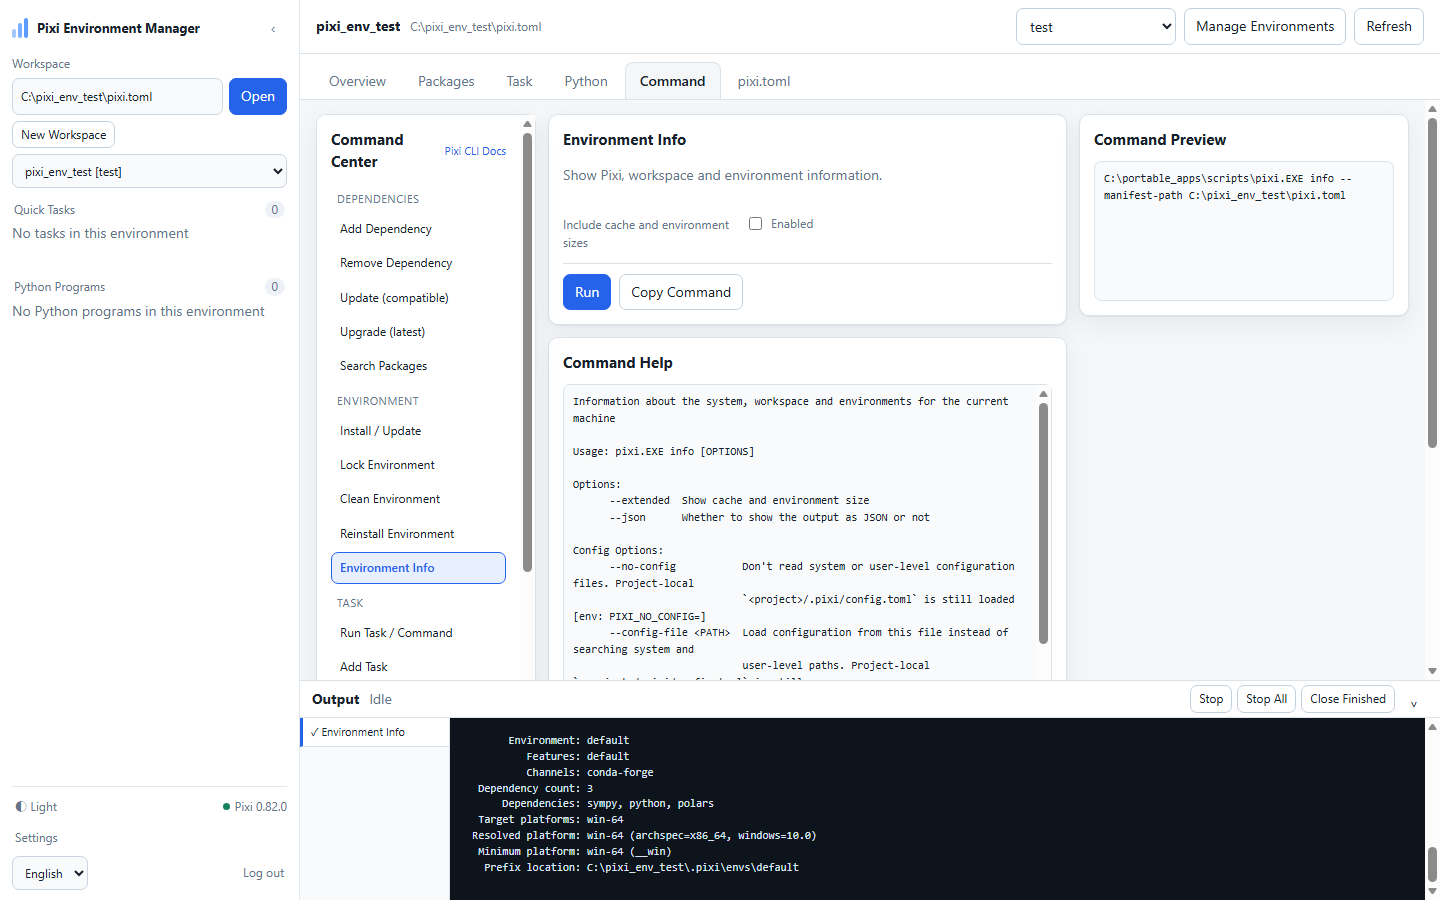
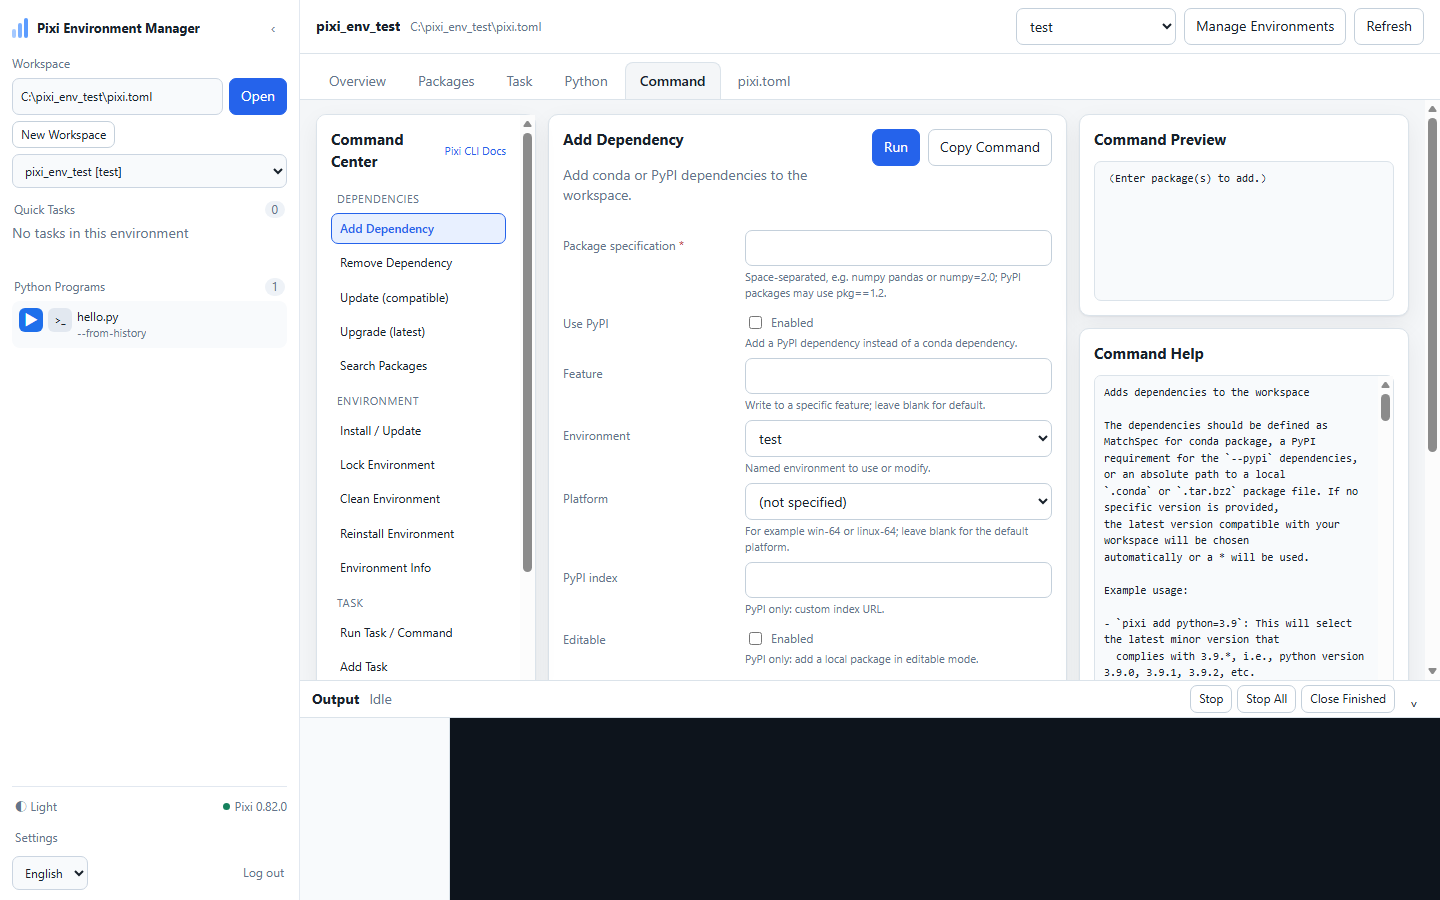
feat: align command layouts and add package license columns

diff --git a/app/web/templates/index.html b/app/web/templates/index.html
@@ -137,6 +137,7 @@
                   <th data-i18n="Scope">Scope</th>
                   <th data-i18n="Requested">Requested</th>
                   <th data-i18n="Source">Source</th>
+                  <th data-i18n="License">License</th>
                   <th data-i18n="Size">Size</th>
                 </tr>
               </thead>
@@ -185,23 +186,18 @@
 
             <div class="command-main">
               <div class="card command-form-card">
-                <div class="card-header">
+                <div class="card-header command-form-header">
                   <div>
                     <h2 id="command-title" data-i18n="Command Center">Command Center</h2>
                     <p id="command-summary" class="muted"></p>
                   </div>
+                  <div class="actions command-header-actions">
+                    <button class="button button-primary" id="command-run" type="button" data-i18n="Run">Run</button>
+                    <button class="button" id="command-copy" type="button" data-i18n="Copy Command">Copy Command</button>
+                  </div>
                 </div>
                 <div id="command-base-notice" class="command-notice" hidden></div>
                 <div id="command-form" class="command-form"></div>
-                <div class="actions command-actions">
-                  <button class="button button-primary" id="command-run" type="button" data-i18n="Run">Run</button>
-                  <button class="button" id="command-copy" type="button" data-i18n="Copy Command">Copy Command</button>
-                </div>
-              </div>
-
-              <div class="card command-help-card">
-                <div class="card-header"><h2 data-i18n="Command Help">Command Help</h2></div>
-                <pre id="command-help" class="command-text"></pre>
               </div>
             </div>
 
@@ -209,6 +205,11 @@
               <div class="card command-preview-card">
                 <div class="card-header"><h2 data-i18n="Command Preview">Command Preview</h2></div>
                 <pre id="command-preview" class="command-text"></pre>
+              </div>
+
+              <div class="card command-help-card">
+                <div class="card-header"><h2 data-i18n="Command Help">Command Help</h2></div>
+                <pre id="command-help" class="command-text"></pre>
               </div>
             </div>
           </div>

diff --git a/app/web/static/app.css b/app/web/static/app.css
@@ -297,7 +297,7 @@ input:focus, select:focus, textarea:focus { outline: 2px solid var(--accent-soft
 
 /* ---------- Tables ---------- */
 .table-wrap { overflow: auto; background: var(--panel); border: 1px solid var(--line); border-radius: var(--radius); box-shadow: var(--shadow); }
-.package-table { width: 100%; border-collapse: collapse; font-size: 12px; min-width: 980px; }
+.package-table { width: 100%; border-collapse: collapse; font-size: 12px; min-width: 1120px; }
 .package-table th, .package-table td { padding: 7px 9px; border-bottom: 1px solid var(--line); text-align: left; vertical-align: top; }
 .package-table th { position: sticky; top: 0; background: var(--panel-2); color: var(--muted); font-weight: 600; z-index: 1; }
 .package-table tbody tr:hover { background: var(--accent-soft); cursor: pointer; }
@@ -353,6 +353,8 @@ input:focus, select:focus, textarea:focus { outline: 2px solid var(--accent-soft
 .command-field .check-row { padding-top: 6px; }
 .command-notice { background: var(--accent-soft); color: var(--text); border: 1px solid var(--line); border-radius: 7px; padding: 8px 10px; margin-bottom: 10px; font-size: 12px; }
 .command-actions { border-top: 1px solid var(--line); padding-top: 10px; }
+.command-form-header { align-items: flex-start; }
+.command-header-actions { flex: none; }
 .command-text { margin: 0; min-height: 120px; max-height: 340px; overflow: auto; white-space: pre-wrap; word-break: break-word; background: var(--panel-2); color: var(--text); border: 1px solid var(--line); border-radius: 7px; padding: 9px; font: 11px/1.5 Consolas, "Cascadia Mono", monospace; }
 .command-help-card .command-text { min-height: 240px; max-height: 420px; }
 .command-preview-card .command-text { min-height: 140px; }

diff --git a/app/web/static/app.js b/app/web/static/app.js
@@ -295,7 +295,7 @@
       if (filter === "user" && !pkg.is_explicit) return false;
       if (kind && String(pkg.kind).toLowerCase() !== kind) return false;
       if (query) {
-        const hay = `${pkg.name} ${pkg.version} ${pkg.requested_spec} ${pkg.source}`.toLowerCase();
+        const hay = `${pkg.name} ${pkg.version} ${pkg.requested_spec} ${pkg.source} ${pkg.license}`.toLowerCase();
         if (!hay.includes(query)) return false;
       }
       return true;
@@ -335,6 +335,7 @@
         <td><span class="scope-${escapeAttr(scope)}">${escapeHtml(scopeLabel(pkg.scope))}</span></td>
         <td>${escapeHtml(pkg.requested_spec || "")}</td>
         <td>${escapeHtml(pkg.source || "")}</td>
+        <td>${escapeHtml(pkg.license || "—")}</td>
         <td class="num">${escapeHtml(formatSize(pkg.size))}</td>
       </tr>`;
     }).join("");

diff --git a/app/ui/commands_tab.py b/app/ui/commands_tab.py
@@ -33,6 +33,16 @@ class CommandsTab(ttk.Frame):
         ttk.Button(
             header, text="Pixi CLI Docs", command=self._open_docs
         ).pack(side="right")
+        ttk.Button(
+            header, text="Copy Command", command=self._copy_preview
+        ).pack(side="right", padx=(6, 0))
+        self.run_button = ttk.Button(
+            header,
+            text="Run",
+            style="Accent.TButton",
+            command=self._run_current,
+        )
+        self.run_button.pack(side="right", padx=(6, 0))
 
         paned = ttk.Panedwindow(self, orient="horizontal")
         paned.pack(fill="both", expand=True, pady=(10, 0))
@@ -68,8 +78,26 @@ class CommandsTab(ttk.Frame):
         self.form_scroll = ScrollableFrame(middle, style="TFrame")
         middle.add(self.form_scroll, weight=2)
 
-        help_frame = ttk.LabelFrame(middle, text="Command Help", padding=(8, 6))
-        middle.add(help_frame, weight=1)
+        side = ttk.Frame(middle)
+        middle.add(side, weight=1)
+
+        preview_frame = ttk.LabelFrame(side, text="Command Preview", padding=(8, 6))
+        preview_frame.pack(fill="x")
+        self.preview = tk.Text(
+            preview_frame,
+            height=3,
+            wrap="word",
+            font=self.app.theme.fonts.mono_small,
+            relief="flat",
+            borderwidth=0,
+            padx=6,
+            pady=4,
+            state="disabled",
+        )
+        self.preview.pack(fill="x")
+
+        help_frame = ttk.LabelFrame(side, text="Command Help", padding=(8, 6))
+        help_frame.pack(fill="both", expand=True, pady=(8, 0))
         self.help_text = tk.Text(
             help_frame,
             width=40,
@@ -87,34 +115,6 @@ class CommandsTab(ttk.Frame):
         self.help_text.configure(yscrollcommand=help_scroll.set)
         self.help_text.pack(side="left", fill="both", expand=True)
         help_scroll.pack(side="right", fill="y")
-
-        preview_frame = ttk.LabelFrame(right, text="Command Preview", padding=(8, 6))
-        preview_frame.pack(fill="x", pady=(8, 0))
-        self.preview = tk.Text(
-            preview_frame,
-            height=3,
-            wrap="word",
-            font=self.app.theme.fonts.mono_small,
-            relief="flat",
-            borderwidth=0,
-            padx=6,
-            pady=4,
-            state="disabled",
-        )
-        self.preview.pack(fill="x")
-
-        action_frame = ttk.Frame(right)
-        action_frame.pack(fill="x", pady=(8, 0))
-        self.run_button = ttk.Button(
-            action_frame,
-            text="Run",
-            style="Accent.TButton",
-            command=self._run_current,
-        )
-        self.run_button.pack(side="left")
-        ttk.Button(
-            action_frame, text="Copy Command", command=self._copy_preview
-        ).pack(side="left", padx=(6, 0))
 
         manual = ttk.LabelFrame(self, text="Manual Command", padding=(9, 7))
         manual.pack(fill="x", pady=(10, 0))

diff --git a/app/ui/libraries_tab.py b/app/ui/libraries_tab.py
@@ -122,6 +122,7 @@ class LibrariesTab(ttk.Frame):
             "scope",
             "spec",
             "source",
+            "license",
             "size",
         )
         self.tree = ttk.Treeview(
@@ -136,6 +137,7 @@ class LibrariesTab(ttk.Frame):
             "scope": "Scope",
             "spec": "Requested",
             "source": "Source",
+            "license": "License",
             "size": "Size",
         }
         widths = {
@@ -147,6 +149,7 @@ class LibrariesTab(ttk.Frame):
             "scope": 105,
             "spec": 180,
             "source": 200,
+            "license": 125,
             "size": 75,
         }
         for column in columns:
@@ -405,6 +408,7 @@ class LibrariesTab(ttk.Frame):
                         package.version,
                         package.requested_spec,
                         package.source,
+                        package.license,
                     )
                 ).lower()
                 if query not in haystack:
@@ -439,6 +443,7 @@ class LibrariesTab(ttk.Frame):
                     package.scope_text,
                     package.requested_spec or "",
                     package.short_source(),
+                    package.license or "—",
                     format_size(package.size),
                 ),
                 tags=tuple(tags),
@@ -488,6 +493,8 @@ class LibrariesTab(ttk.Frame):
                 return package.requested_spec
             if column == "source":
                 return package.short_source()
+            if column == "license":
+                return package.license
             if column == "size":
                 return package.size
             return package.name.casefold()
